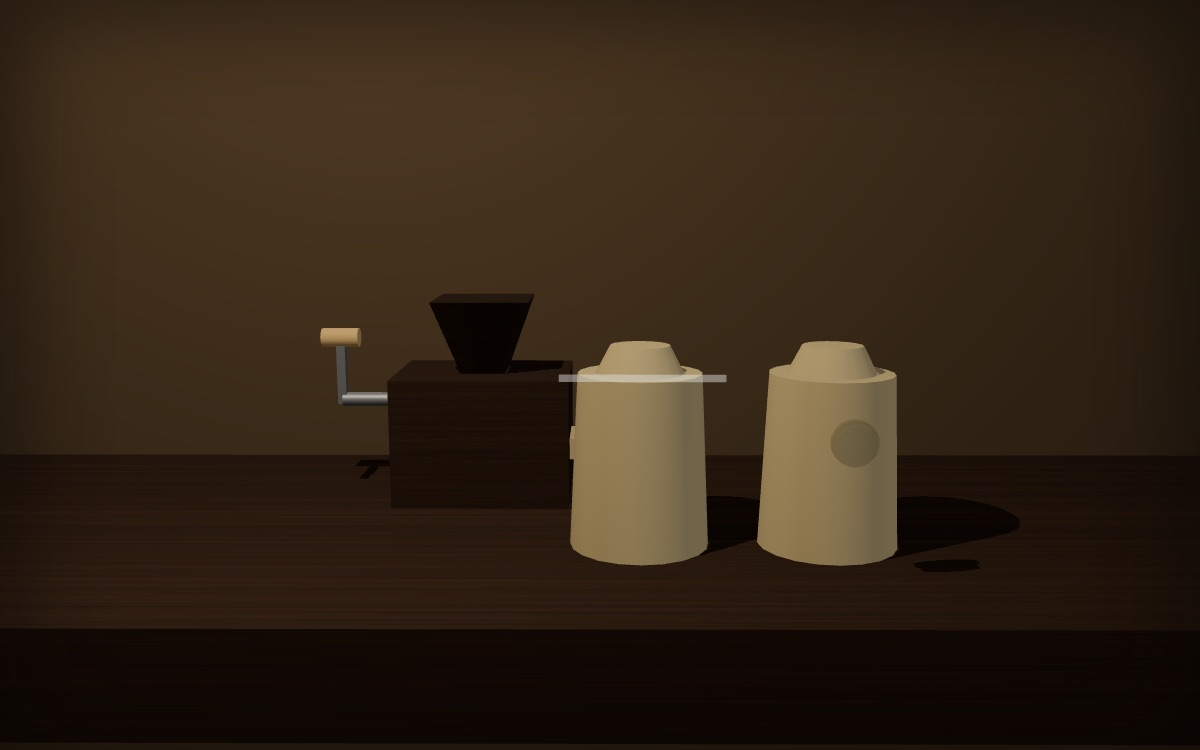
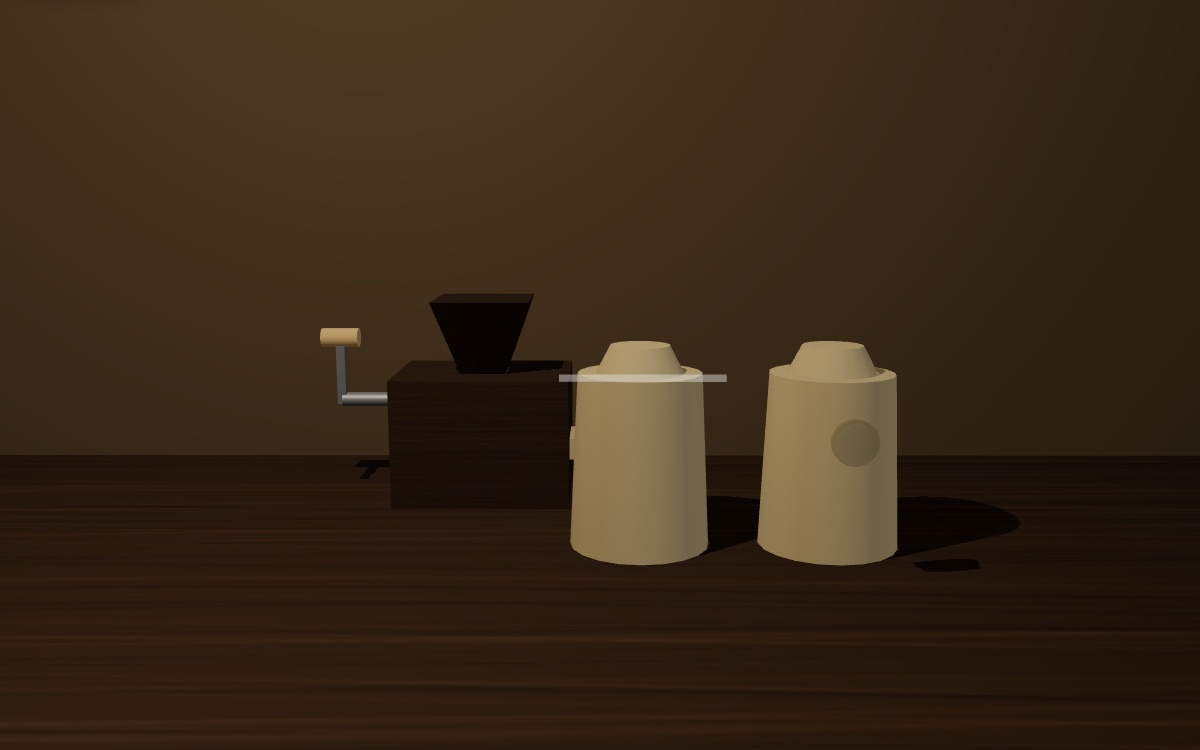
Glossaire : scène de surtravail éclaircie et recadrée

Changed region(s): [[0.0, 0.828, 1.0, 1.0], [0.0, 0.0, 0.0308, 0.0307]]

diff --git a/glossaire/mondes/surtravail/monde.js b/glossaire/mondes/surtravail/monde.js
@@ -49,9 +49,11 @@ window.LM_MONDE = function (canvas) {
       g.stroke();
     }
   });
-  var sol = new THREE.Mesh(new THREE.BoxGeometry(1.9, 0.10, 0.60),
+  /* le plateau descend jusque sous l'objectif : arrêté à 0,28, il laissait
+     voir sa face avant dans l'ombre, une bande noire au bas du cadre. */
+  var sol = new THREE.Mesh(new THREE.BoxGeometry(1.9, 0.10, 1.70),
     std({ map: boisTex, color: 0x9c8768, roughness: 0.88 }));
-  sol.position.set(0, -0.05, -0.02); sol.receiveShadow = true; scene.add(sol);
+  sol.position.set(0, -0.05, 0.53); sol.receiveShadow = true; scene.add(sol);
   var mur = new THREE.Mesh(new THREE.PlaneGeometry(4.6, 2.2), std({ color: 0x171009, roughness: 1 }));
   mur.position.set(0, 0.6, -0.42); scene.add(mur);
 
